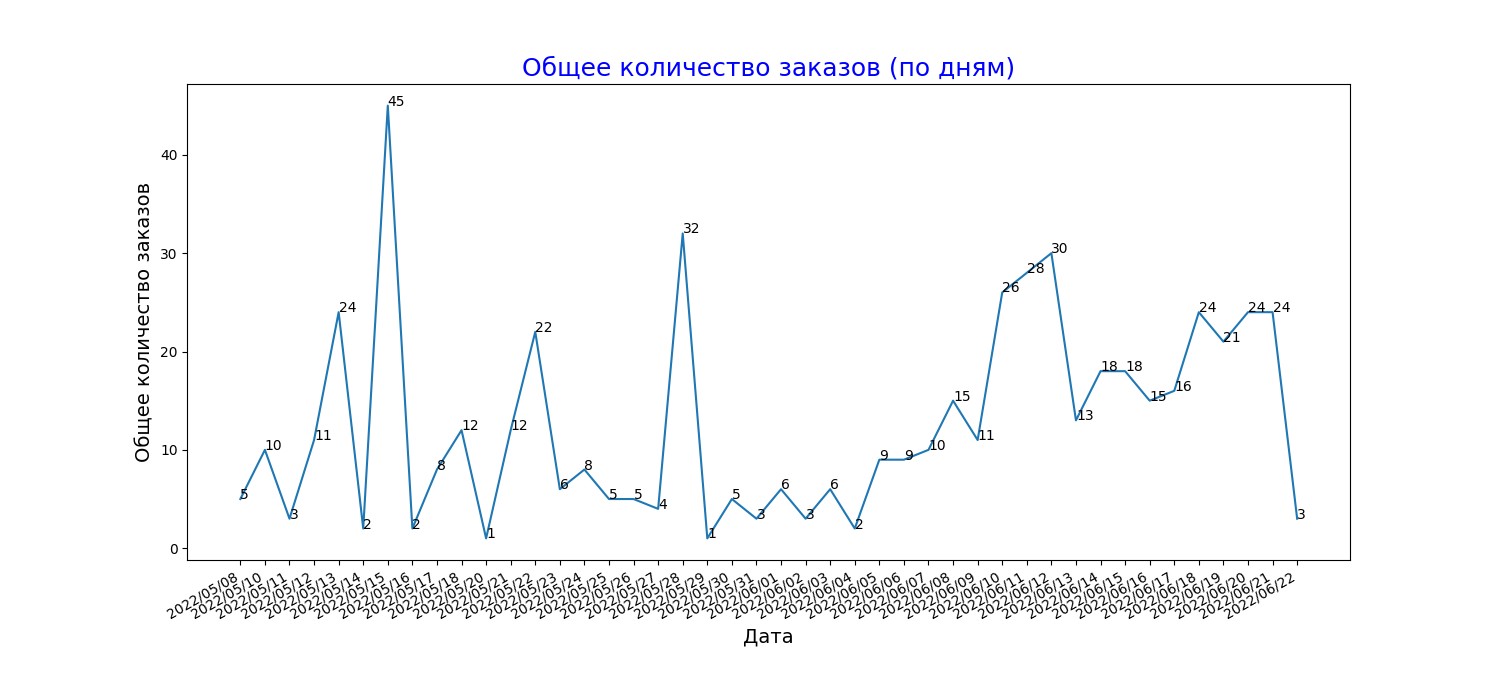
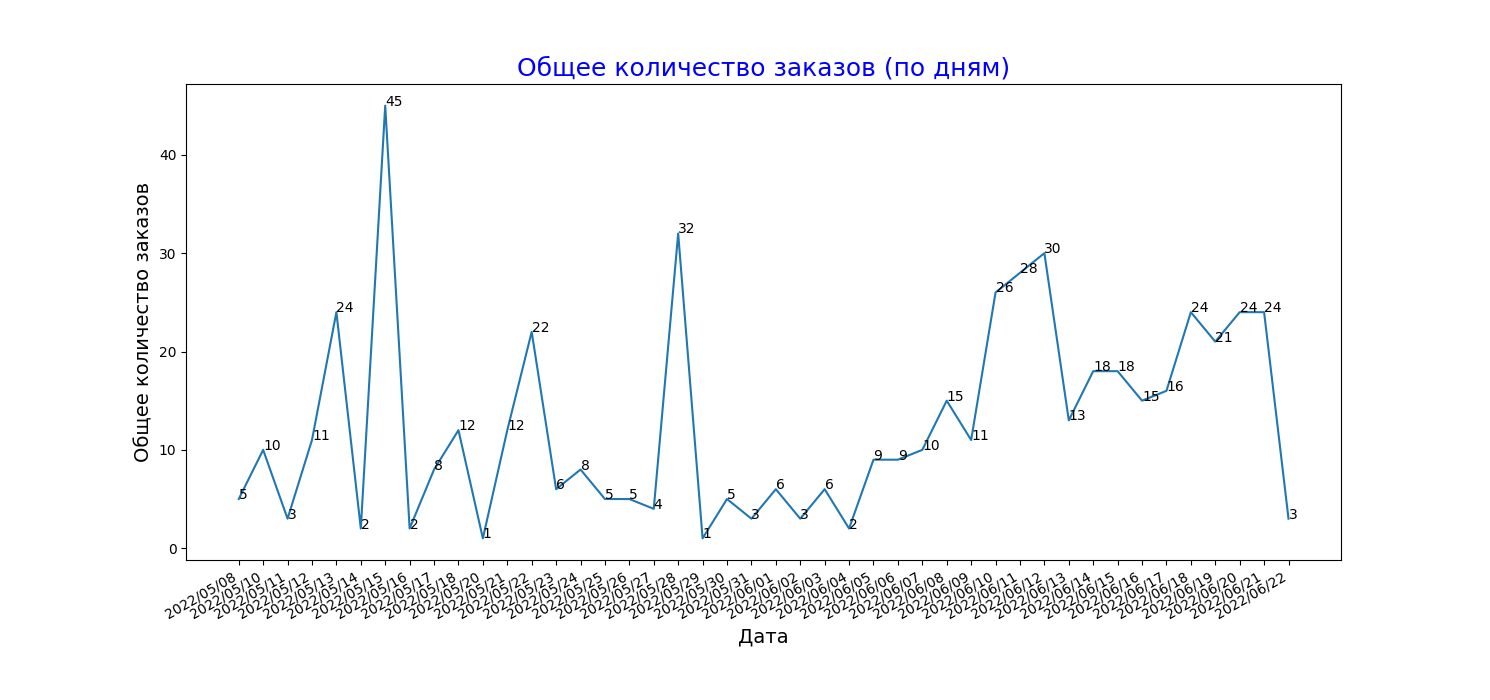
Added class statusorder

diff --git a/templates/analytics.html b/templates/analytics.html
@@ -15,6 +15,9 @@
 <h2>{{array_result}}</h2>
 <h2>{{values}}</h2>
 <h2>{{counts}}</h2>
+<h2>{{result_status}}</h2>
+<h2>{{created_statuss}}</h2>
+<h2>{{array_status}}</h2>
 {% endblock %}
 
 {% block scripts %}

diff --git a/app/routers/analytics.py b/app/routers/analytics.py
@@ -17,6 +17,7 @@ router = APIRouter()
 templates = Jinja2Templates(directory="templates/")
 
 from .models import Order
+from .models import Statusorder
 
 @router.get("/analytics", response_class=HTMLResponse)
 def form_get(request: Request):
@@ -29,11 +30,13 @@ def form_get(request: Request):
     SessionLocal = sessionmaker(autocommit=False, autoflush=False, bind=engine)
     BaseException = declarative_base()
     db = SessionLocal()
-    result = db.query(Order.date).all()
-    results = sorted([a[0].strftime('%Y/%m/%d') for a in result])
+    result_order = db.query(Order.date).all()
+    # result = db.query(Order.date).filter(Order.orders_statusorder.has(Statusorder.status != 'CANCELED')).all()
+
+    result_orders = sorted([a[0].strftime('%Y/%m/%d') for a in result_order])
 
     array_result = {}
-    for a in results:
+    for a in result_orders:
         try:
             array_result[a] += 1
         except KeyError:
@@ -49,7 +52,7 @@ def form_get(request: Request):
         values.append(value)
         counts.append(key)
 
-    plt.figure(figsize=(14.9999, 7))
+    plt.figure(figsize=(14.9, 7))
     plt.plot(values, counts)
     for a, b in zip(values, counts):
         plt.text(a, b, str(b))
@@ -59,5 +62,21 @@ def form_get(request: Request):
     plt.gcf().autofmt_xdate()
     plt.savefig('static/my_plot.png')
 
-    return templates.TemplateResponse('analytics.html', context={'request': request, 'array_result': array_result, 'values': values, 'counts': counts})
+    result_status = db.query(Statusorder.status).filter(Statusorder.status == 'CANCELED').all()
+    created_status = db.query(Statusorder.created).filter(Statusorder.status == 'COMPLETED').all()
+    created_statuss = sorted([a[0].strftime('%Y/%m/%d') for a in created_status])
+
+    array_status = {}
+    for a in created_statuss:
+        try:
+            array_status[a] += 1
+        except KeyError:
+            array_status[a] = 1
+
+    for item in sorted(array_status):
+        print(item, array_status[item])
+
+    return templates.TemplateResponse('analytics.html', context={'request': request, 'array_result': array_result, 'values': values,
+                                                                 'counts': counts, 'result_status': result_status, 'created_statuss': created_statuss,
+                                                                 'array_status': array_status})
 

diff --git a/app/routers/models.py b/app/routers/models.py
@@ -1,11 +1,21 @@
-from sqlalchemy import Column, DateTime, BigInteger
+from sqlalchemy import Column, DateTime, BigInteger, VARCHAR, ForeignKey, TIMESTAMP
 from sqlalchemy.ext.declarative import declarative_base
-from datetime import date
+from sqlalchemy.orm import relationship, backref
 
 Base = declarative_base()
+
+
+class Statusorder(Base):
+    __tablename__ = 'orders_statusorder'
+    id = Column(BigInteger, primary_key=True)
+    status = Column(VARCHAR(120))
+    created = Column(TIMESTAMP)
 
 
 class Order(Base):
     __tablename__ = 'orders_order'
     id = Column(BigInteger, primary_key=True)
     date = Column(DateTime(timezone=True))
+
+    # statusorder_id = Column(VARCHAR(120), ForeignKey('orders_statusorder.id'))
+    # orders_statusorder = relationship(Statusorder, backref=backref('orders_orders', uselist=True))

diff --git a/app/routers/schema.py b/app/routers/schema.py
@@ -9,3 +9,11 @@ class Order(BaseModel):
     class Config:
         orm_mode = True
 
+
+class StatusOrder(BaseModel):
+    id: int
+    status: str
+    created: str
+
+    class Config:
+        orm_mode = True
